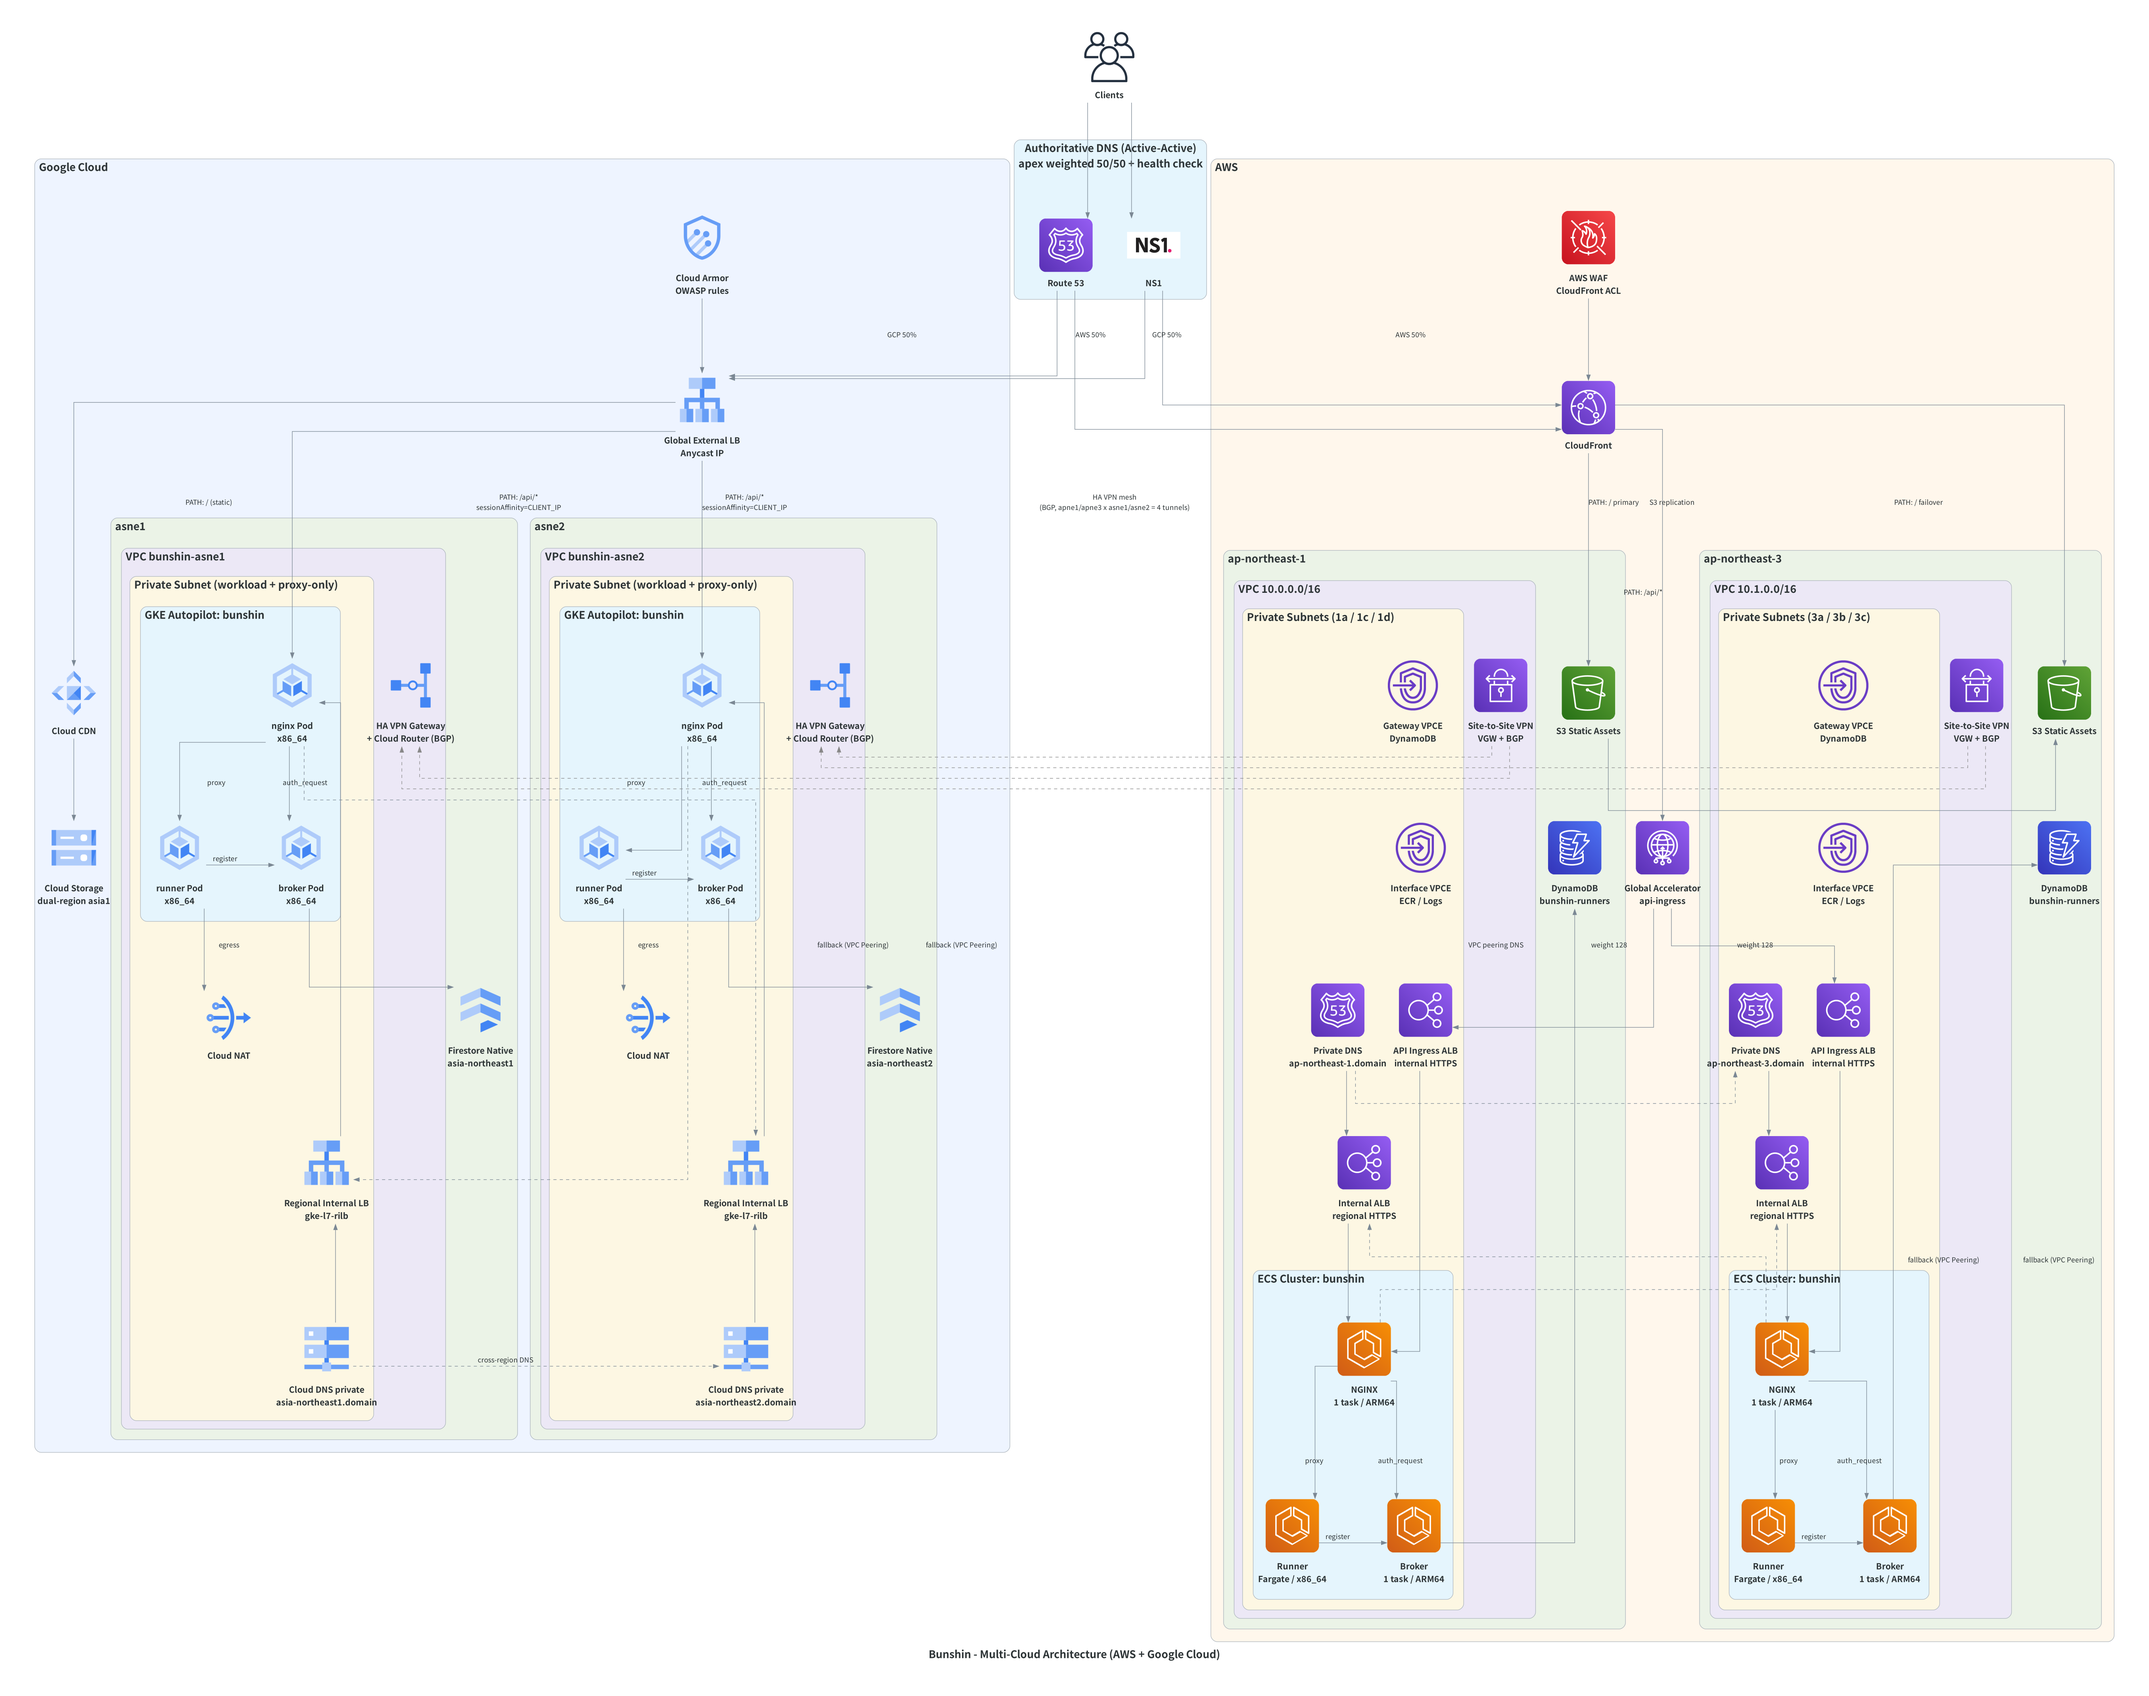
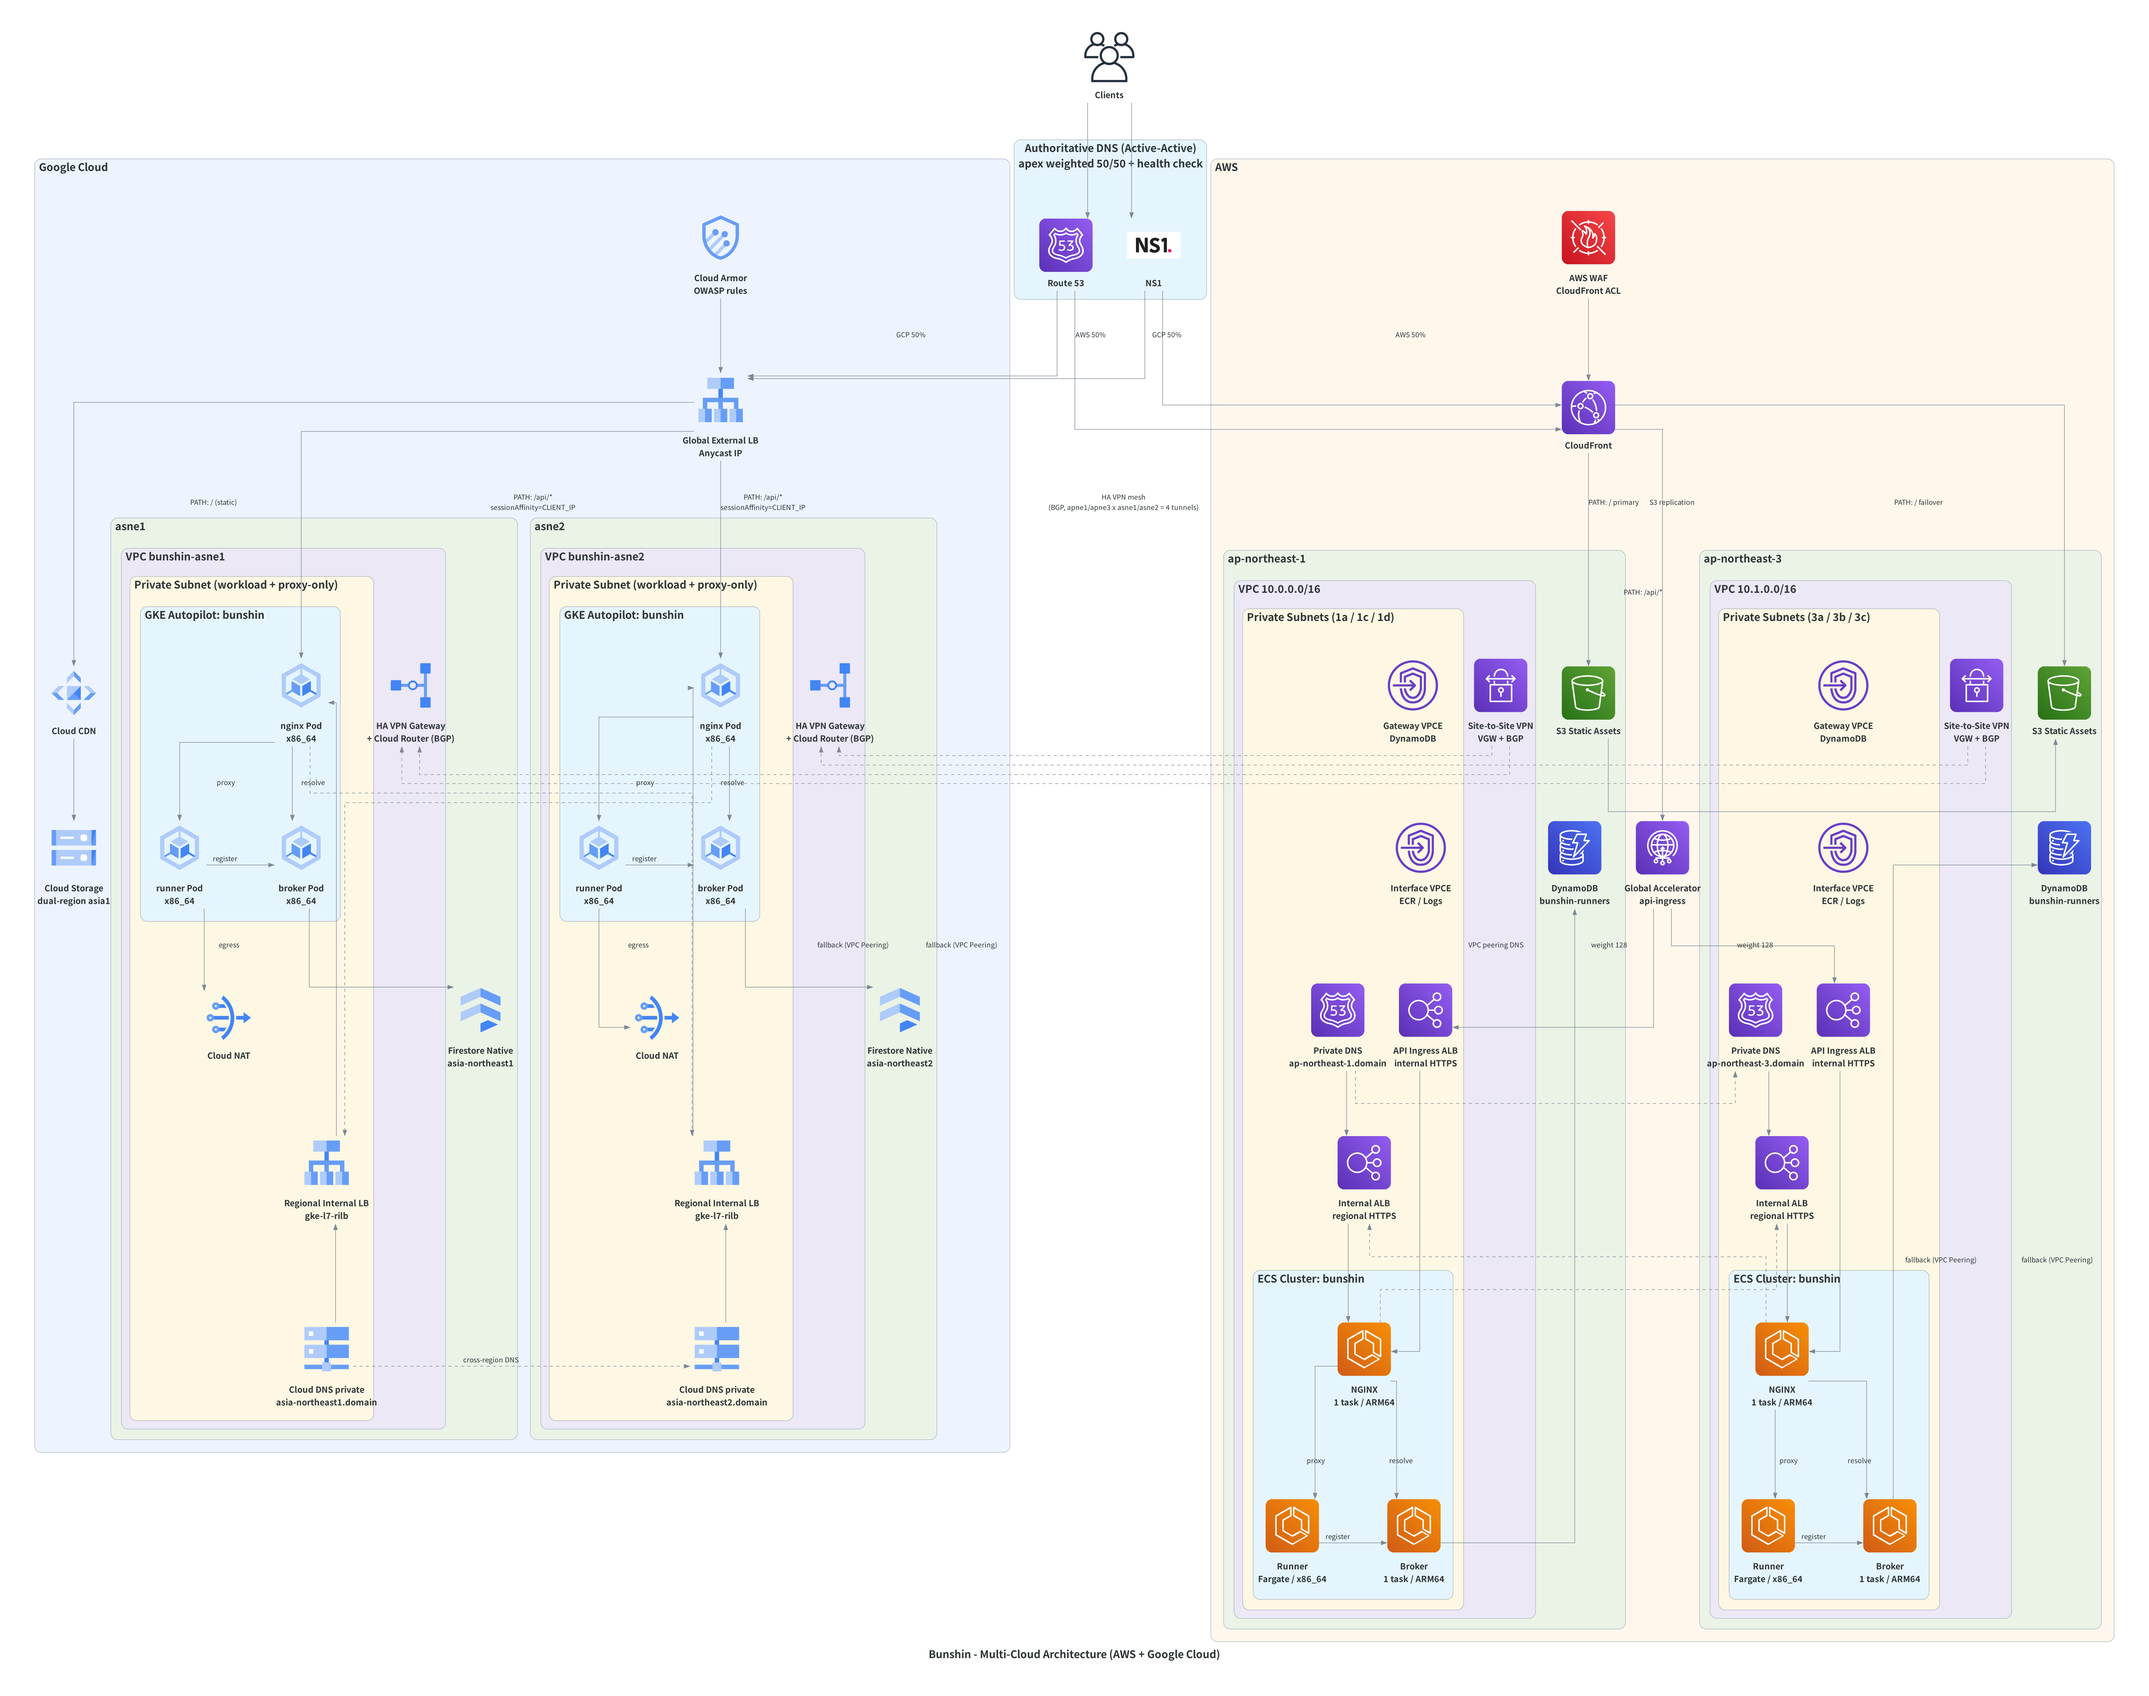
docs: relabel nginx-to-broker edge from auth_request to resolve
The diagram labelled the nginx-to-broker call as auth_request, but nginx
does not use the auth_request directive. It calls broker /resolve/session
and /resolve/app as ngx.location.capture subrequests from access_by_lua.

diff --git a/docs/architecture_diagram.py b/docs/architecture_diagram.py
@@ -76,7 +76,7 @@ def aws_region(name: str, cidr: str, azs: str) -> dict[str, object]:
                 internal_alb >> nginx
                 private_dns >> internal_alb
                 nginx >> Edge(label="proxy") >> runner
-                nginx >> Edge(label="auth_request") >> broker
+                nginx >> Edge(label="resolve") >> broker
                 runner >> Edge(label="register", constraint="false") >> broker
                 vpce_gateway >> Edge(style="invis") >> vpce_interface
                 vpce_interface >> Edge(style="invis") >> api_alb
@@ -118,7 +118,7 @@ def gcp_region(name: str, project_region: str) -> dict[str, object]:
                 rilb >> nginx
                 private_dns >> rilb
                 nginx >> Edge(label="proxy") >> runner
-                nginx >> Edge(label="auth_request") >> broker
+                nginx >> Edge(label="resolve") >> broker
                 runner >> Edge(label="register", constraint="false") >> broker
                 runner >> Edge(label="egress") >> nat
                 nat >> Edge(style="invis") >> rilb
